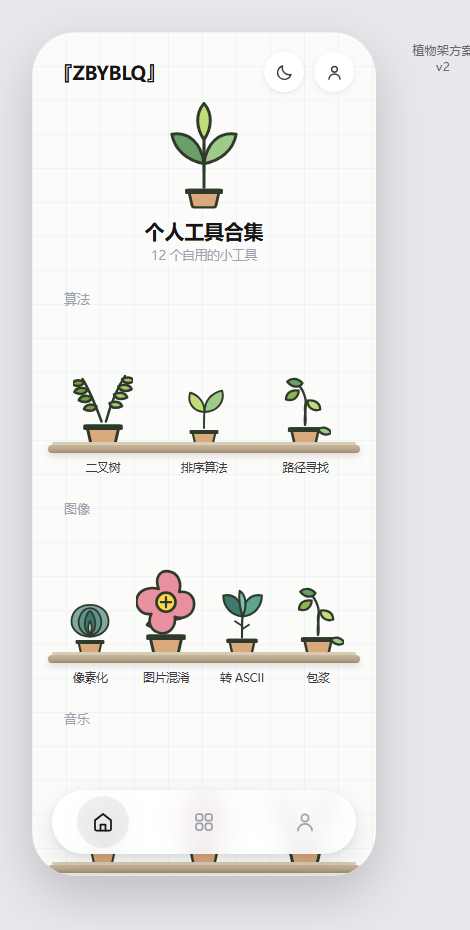
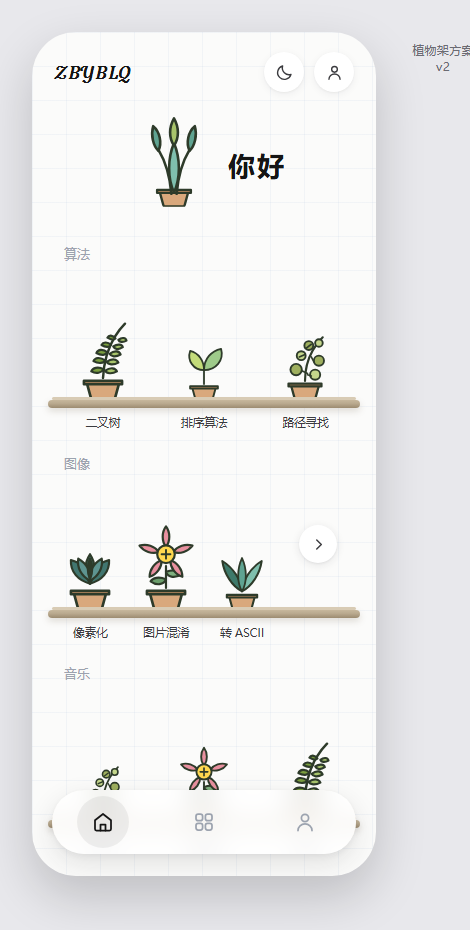
docs: 主页方案第二轮修订
按审阅意见调整六处：

1. 品牌字改用数学字体 𝒵𝐵𝒴𝐵𝐿𝒬
2. 删除主视觉的标题与副标题，改为「植物 + 问候词」横排
3. 修复植物穿模与出界（蕨、花、莲座、藤蔓、阔叶五种）
4. 花的花瓣原先在中心重叠，粗描边把粉色糊成黑团，已加大中心留白
5. 藤蔓原先与蕨叶形状过近，改用圆叶区分
6. 货架最多显示 3 个，超出部分由右侧 SVG 箭头跳转分类页

形态出界的根因是手工计算贝塞尔控制点时未约束在 80×120 的 viewBox
内。改用「基准叶 + 绕基点旋转」的构造方式后几何可预测，不再出界，
此法已应用于阔叶与花。

已知遗留：仍偏剪贴画（路径过于平滑，缺手绘不规则感）、主视觉植物
偏单薄、箭头与货架的整合度可再优化。

Refs: docs/08-home-redesign-proposal.md §8

diff --git a/docs/design/home-shelf-proposal.html b/docs/design/home-shelf-proposal.html
@@ -26,10 +26,10 @@
     display:flex;align-items:center;justify-content:center;
     box-shadow:0 1px 2px rgba(40,40,45,.05),0 2px 8px rgba(40,40,45,.06)}
 
-  .intro{text-align:center;padding:10px 24px 2px}
-  .intro svg{width:112px;height:112px;display:block;margin:0 auto}
-  .intro h1{font-size:20px;margin:4px 0 0;color:var(--ink1);letter-spacing:-.2px}
-  .intro p{margin:3px 0 0;font-size:12.5px;color:var(--ink3)}
+  .intro{display:flex;align-items:center;justify-content:center;gap:2px;padding:16px 24px 8px}
+  .intro svg{width:104px;height:104px;flex:none}
+  .hi{font-size:27px;font-weight:600;color:var(--ink1);letter-spacing:2px;
+      /* 视觉基线略低于植物中心，避免读作「植物+标签」 */margin-top:10px}
 
   .shelfblock{padding:26px 0 0}
   .shelfname{font-size:12.5px;color:var(--ink3);letter-spacing:.6px;padding:0 32px 6px}
@@ -47,6 +47,15 @@
     border-radius:4px;box-shadow:0 3px 7px rgba(120,105,84,.22)}
   .board::before{content:'';position:absolute;left:4px;right:4px;top:-3px;height:3px;
     background:#D8CBB4;border-radius:3px}
+
+  /* 「更多」箭头：坐在板上，与花盆同一基线高度 */
+  .row .more{align-self:center}
+  .more{display:flex;align-items:center;justify-content:center;
+    width:38px;height:38px;border-radius:50%;background:#fff;
+    box-shadow:0 1px 2px rgba(40,40,45,.06),0 2px 8px rgba(40,40,45,.10);
+    transition:transform .18s cubic-bezier(.34,1.45,.64,1)}
+  .more svg{width:17px;height:17px}
+  .more:hover{transform:translateX(2px)}
 
   .names{padding-top:7px}
   .names span{font-size:11.5px;color:var(--ink2);white-space:nowrap}
@@ -69,105 +78,129 @@
 <body>
 
 <svg width="0" height="0" style="position:absolute"><defs>
-  <!-- 通用花盆：梯形 + 盆沿 -->
-  <symbol id="pot" viewBox="0 0 60 34">
-    <path d="M8 8 H52 L47 30 C46.6 32 45 33 43 33 H17 C15 33 13.4 32 13 30 Z"
-          fill="#D9A87C" stroke="#2E3B2A" stroke-width="4" stroke-linejoin="round"/>
-    <path d="M5 8 H55 V11.5 H5 Z" fill="#C48F63" stroke="#2E3B2A" stroke-width="4" stroke-linejoin="round"/>
+  <!-- 花盆：盆沿 + 梯形盆身。土壤面在 y=6 -->
+  <symbol id="pot" viewBox="0 0 64 32">
+    <path d="M10 9 H54 L48.5 29 C48.2 30.6 47 31.6 45.4 31.6 H18.6 C17 31.6 15.8 30.6 15.5 29 Z"
+          fill="#D9A87C" stroke="#2E3B2A" stroke-width="3.6" stroke-linejoin="round"/>
+    <path d="M6 6 H58 V10.5 H6 Z" fill="#C48F63" stroke="#2E3B2A" stroke-width="3.6" stroke-linejoin="round"/>
   </symbol>
 
-  <!-- 1 阔叶：大叶片 + 叶柄 -->
+  <!-- 基准叶：从 (40,88) 长到 (40,26)，绕基点旋转即可得各方向叶片 -->
+  <symbol id="leafbase" viewBox="0 0 80 120">
+    <path d="M40 88 C30.5 72 30.5 46 40 26 C49.5 46 49.5 72 40 88 Z"/>
+  </symbol>
+
+  <!-- 1 阔叶：三片叶自盆中舒展，中片直立、两侧对称外展 -->
   <symbol id="p-leaf" viewBox="0 0 80 120">
-    <use href="#pot" x="10" y="86" width="60" height="34"/>
-    <g stroke="#2E3B2A" stroke-width="3.6" stroke-linecap="round" stroke-linejoin="round">
-      <path d="M40 90 C40 74 40 62 41 52" fill="none"/>
-      <path d="M41 54 C22 52 8 38 8 18 C28 14 42 30 41 54 Z" fill="#3E7A6B"/>
-      <path d="M41 54 C60 52 74 38 74 18 C54 14 40 30 41 54 Z" fill="#5FA391"/>
-      <path d="M41 54 C36 38 34 24 36 10 C46 16 50 34 41 54 Z" fill="#7FBFAD"/>
-      <path d="M40 86 L40 60 M40 70 L28 62 M40 76 L52 68" fill="none" stroke-width="3"/>
+    <use href="#pot" x="8" y="88" width="64" height="32"/>
+    <g stroke="#2E3B2A" stroke-width="3.4" stroke-linejoin="round" stroke-linecap="round">
+      <use href="#leafbase" fill="#3E7A6B" transform="rotate(-33 40 88)"/>
+      <use href="#leafbase" fill="#7FBFAD" transform="rotate(33 40 88)"/>
+      <use href="#leafbase" fill="#5FA391" transform="scale(.92) translate(3.5 7.6)"/>
     </g>
   </symbol>
 
-  <!-- 2 蕨：两枝拱形羽叶 -->
+  <!-- 2 蕨：单枝拱形羽叶。此前两枝交叉成 X 且叶片出框，改为单枝 -->
   <symbol id="p-fern" viewBox="0 0 80 120">
-    <use href="#pot" x="10" y="86" width="60" height="34"/>
-    <g stroke="#2E3B2A" stroke-width="3.4" stroke-linecap="round" stroke-linejoin="round">
-      <path d="M38 88 C30 66 22 46 12 30" fill="none"/>
-      <path d="M44 88 C50 66 58 44 70 26" fill="none"/>
+    <use href="#pot" x="8" y="88" width="64" height="32"/>
+    <g stroke="#2E3B2A" stroke-width="3" stroke-linecap="round" stroke-linejoin="round">
+      <path d="M40 90 C41 72 45 52 56 34 C61 26 66 20 70 16" fill="none" stroke-width="3.4"/>
+      <!-- 小叶沿茎两侧交替，向尖端递减；全部在 x 8..74 内 -->
       <g fill="#7A9E3E">
-        <path d="M14 34 C6 30 0 32 -2 37 C5 41 12 40 14 34 Z"/>
-        <path d="M19 44 C10 40 3 42 1 48 C9 52 17 51 19 44 Z"/>
-        <path d="M25 55 C16 51 9 53 7 59 C15 63 23 62 25 55 Z"/>
-        <path d="M31 67 C23 63 16 65 14 71 C22 75 30 74 31 67 Z"/>
+        <path d="M41 78 C33 74 26 76 24 81 C31 85 38 83 41 78 Z"/>
+        <path d="M43 66 C36 61 29 62 27 67 C34 71 41 70 43 66 Z"/>
+        <path d="M46 55 C40 50 33 51 31 56 C38 60 44 59 46 55 Z"/>
+        <path d="M51 45 C46 40 40 41 38 45 C44 49 49 48 51 45 Z"/>
+        <path d="M57 36 C53 31 48 31 46 35 C51 38 55 38 57 36 Z"/>
       </g>
       <g fill="#A8C46B">
-        <path d="M66 30 C74 26 80 28 82 33 C75 37 68 36 66 30 Z"/>
-        <path d="M61 40 C70 36 77 38 79 44 C71 48 63 47 61 40 Z"/>
-        <path d="M55 51 C64 47 71 49 73 55 C65 59 57 58 55 51 Z"/>
-        <path d="M49 63 C57 59 64 61 66 67 C58 71 50 70 49 63 Z"/>
+        <path d="M43 80 C50 75 57 76 59 81 C52 85 45 84 43 80 Z"/>
+        <path d="M45 68 C52 63 59 64 61 69 C54 73 47 72 45 68 Z"/>
+        <path d="M49 57 C56 52 62 53 64 58 C57 62 51 61 49 57 Z"/>
+        <path d="M54 47 C60 43 66 44 67 48 C61 52 56 51 54 47 Z"/>
+        <path d="M61 38 C66 34 71 35 72 39 C67 42 62 41 61 38 Z"/>
       </g>
     </g>
   </symbol>
 
-  <!-- 3 花：五瓣不等分 -->
+  <!-- 3 花：花瓣外移收窄。此前五瓣在中心重叠，粗描边把粉色糊成一团黑 -->
   <symbol id="p-flower" viewBox="0 0 80 120">
-    <use href="#pot" x="10" y="86" width="60" height="34"/>
-    <g stroke="#2E3B2A" stroke-width="3.6" stroke-linecap="round" stroke-linejoin="round">
-      <path d="M40 88 C40 74 40 60 40 48" fill="none"/>
-      <path d="M40 74 C28 70 18 72 14 79 C24 86 36 84 40 74 Z" fill="#6B9E6B"/>
-      <path d="M40 62 C52 58 62 60 66 67 C56 74 44 72 40 62 Z" fill="#9ECB8A"/>
-      <path d="M30 30 C24 14 32 4 44 6 C56 8 62 20 58 34
-               C72 32 80 42 78 54 C76 66 64 72 52 68
-               C54 82 44 92 32 90 C20 88 14 76 20 64
-               C8 66 -2 56 0 44 C2 32 16 26 30 30 Z" fill="#E8909F"/>
-      <circle cx="40" cy="48" r="13" fill="#FFD84F"/>
-      <path d="M40 41 L40 55 M33 48 L47 48" fill="none" stroke-width="3"/>
+    <use href="#pot" x="8" y="88" width="64" height="32"/>
+    <g stroke="#2E3B2A" stroke-width="3" stroke-linecap="round" stroke-linejoin="round">
+      <path d="M40 90 C40 78 40 68 40 60" fill="none"/>
+      <path d="M40 78 C30 74 22 76 19 81 C27 87 37 86 40 78 Z" fill="#6B9E6B"/>
+      <path d="M40 68 C50 64 58 66 61 71 C53 77 43 76 40 68 Z" fill="#7FB07F"/>
+      <g fill="#E8909F">
+        <path d="M40 34 C34 26 34 14 40 6 C46 14 46 26 40 34 Z"/>
+        <path d="M40 34 C34 26 34 14 40 6 C46 14 46 26 40 34 Z" transform="rotate(72 40 44)"/>
+        <path d="M40 34 C34 26 34 14 40 6 C46 14 46 26 40 34 Z" transform="rotate(144 40 44)"/>
+        <path d="M40 34 C34 26 34 14 40 6 C46 14 46 26 40 34 Z" transform="rotate(216 40 44)"/>
+        <path d="M40 34 C34 26 34 14 40 6 C46 14 46 26 40 34 Z" transform="rotate(288 40 44)"/>
+      </g>
+      <circle cx="40" cy="44" r="12" fill="#FFD84F"/>
+      <path d="M40 38 L40 50 M34 44 L46 44" fill="none" stroke-width="2.6"/>
     </g>
   </symbol>
 
-  <!-- 4 芽：两片初叶，不对称 -->
+  <!-- 4 芽：两片初叶 -->
   <symbol id="p-sprout" viewBox="0 0 80 120">
-    <use href="#pot" x="10" y="86" width="60" height="34"/>
-    <g stroke="#2E3B2A" stroke-width="3.6" stroke-linecap="round" stroke-linejoin="round">
-      <path d="M40 88 C40 76 40 64 41 56" fill="none"/>
-      <path d="M41 58 C41 40 30 26 14 22 C8 40 20 58 41 58 Z" fill="#C3DC7A"/>
-      <path d="M41 58 C41 36 55 22 74 18 C80 40 64 58 41 58 Z" fill="#9ECB8A"/>
+    <use href="#pot" x="8" y="88" width="64" height="32"/>
+    <g stroke="#2E3B2A" stroke-width="3.4" stroke-linecap="round" stroke-linejoin="round">
+      <path d="M40 90 C40 80 40 70 40 62" fill="none"/>
+      <path d="M40 64 C40 46 30 32 14 28 C8 46 20 64 40 64 Z" fill="#C3DC7A"/>
+      <path d="M40 64 C40 42 54 28 72 24 C78 46 62 64 40 64 Z" fill="#9ECB8A"/>
     </g>
   </symbol>
 
-  <!-- 5 莲座：外层摊开 + 内层立起 -->
+  <!-- 5 莲座：尖叶放射，取代原先的同心椭圆（原读不出多肉） -->
   <symbol id="p-rosette" viewBox="0 0 80 120">
-    <use href="#pot" x="10" y="86" width="60" height="34"/>
-    <g stroke="#2E3B2A" stroke-width="3.4" stroke-lineapp="round" stroke-linecap="round" stroke-linejoin="round">
-      <path d="M40 86 C14 84 2 68 6 50 C10 34 24 26 40 26 C56 26 70 34 74 50 C78 68 66 84 40 86 Z" fill="#7FA8A0"/>
-      <path d="M40 84 C22 80 16 64 20 50 C24 38 32 32 40 32 C48 32 56 38 60 50 C64 64 58 80 40 84 Z" fill="#5E9490"/>
-      <path d="M40 82 C30 76 28 62 32 50 C35 42 38 38 40 38 C42 38 45 42 48 50 C52 62 50 76 40 82 Z" fill="#41766F"/>
-      <path d="M40 80 C36 74 36 64 40 56 C44 64 44 74 40 80 Z" fill="#B5D4C8"/>
+    <use href="#pot" x="8" y="88" width="64" height="32"/>
+    <g stroke="#2E3B2A" stroke-width="3" stroke-linejoin="round" stroke-linecap="round">
+      <g fill="#41766F">
+        <path d="M40 84 C24 80 13 68 14 52 C30 56 41 68 40 84 Z"/>
+        <path d="M40 84 C56 80 67 68 66 52 C50 56 39 68 40 84 Z"/>
+        <path d="M40 84 C32 70 32 56 40 44 C48 56 48 70 40 84 Z"/>
+      </g>
+      <g fill="#5E9490">
+        <path d="M40 80 C28 74 22 62 24 50 C35 56 42 68 40 80 Z"/>
+        <path d="M40 80 C52 74 58 62 56 50 C45 56 38 68 40 80 Z"/>
+      </g>
+      <path d="M40 78 C36 68 36 58 40 50 C44 58 44 68 40 78 Z" fill="#7FA8A0"/>
+      <path d="M40 76 C38 68 38 60 40 54 C42 60 42 68 40 76 Z" fill="#B5D4C8"/>
     </g>
   </symbol>
 
-  <!-- 6 藤蔓：从盆沿垂落 -->
+  <!-- 6 藤：圆叶攀藤。此前叶片形状与蕨叶过近，改用圆形叶区分 -->
   <symbol id="p-vine" viewBox="0 0 80 120">
-    <use href="#pot" x="10" y="86" width="60" height="34"/>
-    <g stroke="#2E3B2A" stroke-width="3.6" stroke-linecap="round" stroke-linejoin="round">
-      <path d="M40 88 C38 72 44 58 40 44 C37 32 30 24 22 20" fill="none"/>
-      <path d="M40 88 C44 76 36 64 42 52" fill="none"/>
-      <path d="M30 34 C18 32 10 38 10 48 C22 52 30 44 30 34 Z" fill="#8FB44F"/>
-      <path d="M36 22 C28 14 18 14 12 20 C20 30 32 30 36 22 Z" fill="#6B9E6B"/>
-      <path d="M44 50 C56 48 64 54 64 64 C52 68 44 60 44 50 Z" fill="#C3DC7A"/>
-      <path d="M60 96 C66 104 76 106 82 100 C76 92 66 90 60 96 Z" fill="#9ECB8A"/>
+    <use href="#pot" x="8" y="88" width="64" height="32"/>
+    <g stroke="#2E3B2A" stroke-width="3" stroke-linecap="round" stroke-linejoin="round">
+      <path d="M40 90 C40 74 44 56 52 42 C57 33 63 26 68 21" fill="none" stroke-width="3.4"/>
+      <g fill="#9EAF5E">
+        <circle cx="26" cy="72" r="9" fill="#9EAF5E"/>
+        <circle cx="62" cy="58" r="8" fill="#9EAF5E"/>
+        <circle cx="46" cy="34" r="7" fill="#9EAF5E"/>
+      </g>
+      <g fill="#C4D68C">
+        <circle cx="56" cy="80" r="8"/>
+        <circle cx="34" cy="50" r="7"/>
+        <circle cx="62" cy="30" r="6"/>
+      </g>
+      <path d="M35 74 L44 78 M54 60 L50 52 M42 38 L50 32 M50 82 L44 80 M31 52 L40 48" fill="none" stroke-width="2.6"/>
     </g>
   </symbol>
 
-  <!-- 主视觉：三枝错落 -->
+  <!-- 主视觉：中片直立 + 两侧外展 + 蕨叶衬底 -->
   <symbol id="p-hero" viewBox="0 0 160 160">
-    <use href="#pot" x="50" y="118" width="60" height="34"/>
-    <g stroke="#2E3B2A" stroke-width="4.2" stroke-linecap="round" stroke-linejoin="round">
-      <path d="M80 122 C80 96 80 72 80 52" fill="none"/>
-      <path d="M80 88 C56 84 38 68 34 46 C58 42 76 58 80 88 Z" fill="#6B9E6B"/>
-      <path d="M80 88 C104 84 122 68 126 46 C102 42 84 58 80 88 Z" fill="#9ECB8A"/>
-      <path d="M80 54 C68 36 68 16 80 2 C92 16 92 36 80 54 Z" fill="#C3DC7A"/>
-      <path d="M80 60 L80 100" fill="none" stroke-width="3.4"/>
+    <use href="#pot" x="48" y="120" width="64" height="32"/>
+    <g stroke="#2E3B2A" stroke-width="4" stroke-linejoin="round" stroke-linecap="round">
+      <path d="M76 132 C74 108 68 84 56 64" fill="none"/>
+      <path d="M84 132 C86 108 92 84 104 64" fill="none"/>
+      <g fill="#5FA391">
+        <path d="M56 66 C48 58 44 42 48 28 C58 36 62 54 56 66 Z"/>
+        <path d="M104 66 C112 58 116 42 112 28 C102 36 98 54 104 66 Z"/>
+      </g>
+      <path d="M80 130 C70 108 70 78 80 54 C90 78 90 108 80 130 Z" fill="#7FBFAD"/>
+      <path d="M80 58 C72 46 72 30 80 16 C88 30 88 46 80 58 Z" fill="#A8C46B"/>
     </g>
   </symbol>
 </defs></svg>
@@ -175,7 +208,7 @@
 <div class="phone">
   <div class="scroll">
     <div class="head">
-      <div class="brand">『ZBYBLQ』</div>
+      <div class="brand">𝒵𝐵𝒴𝐵𝐿𝒬</div>
       <div class="acts">
         <button class="iconbtn"><svg width="19" height="19" viewBox="0 0 24 24" fill="none" stroke="#3B3B3F" stroke-width="1.75" stroke-linecap="round" stroke-linejoin="round"><path d="M20.2 14.4A8.6 8.6 0 0 1 9.6 3.8a8.6 8.6 0 1 0 10.6 10.6Z"/></svg></button>
         <button class="iconbtn"><svg width="19" height="19" viewBox="0 0 24 24" fill="none" stroke="#3B3B3F" stroke-width="1.75" stroke-linecap="round" stroke-linejoin="round"><circle cx="12" cy="8" r="3.6"/><path d="M5 20.5c0-3.7 3.1-6.6 7-6.6s7 2.9 7 6.6"/></svg></button>
@@ -184,8 +217,7 @@
 
     <div class="intro">
       <svg><use href="#p-hero"/></svg>
-      <h1>个人工具合集</h1>
-      <p>12 个自用的小工具</p>
+      <div class="hi">你好</div>
     </div>
 
     <div class="shelfblock">
@@ -209,17 +241,22 @@
       <div class="shelfname">图像</div>
       <div class="shelf">
         <div class="row" style="--n:4">
-        <div class="item s2"><svg><use href="#p-rosette"/></svg></div>
+        <div class="item s3"><svg><use href="#p-rosette"/></svg></div>
         <div class="item s3"><svg><use href="#p-flower"/></svg></div>
         <div class="item s4"><svg><use href="#p-leaf"/></svg></div>
-        <div class="item s1"><svg><use href="#p-vine"/></svg></div>
+        <a class="more" href="#">
+          <svg viewBox="0 0 24 24" fill="none" stroke="#3B3B3F" stroke-width="2"
+               stroke-linecap="round" stroke-linejoin="round">
+            <path d="M9.5 5.5 16 12l-6.5 6.5"/>
+          </svg>
+        </a>
         </div>
         <div class="board"></div>
         <div class="names" style="--n:4">
         <span>像素化</span>
         <span>图片混淆</span>
         <span>转 ASCII</span>
-        <span>包浆</span>
+        <span></span>
         </div>
       </div>
     </div>
@@ -228,7 +265,7 @@
       <div class="shelfname">音乐</div>
       <div class="shelf">
         <div class="row" style="--n:3">
-        <div class="item s2"><svg><use href="#p-sprout"/></svg></div>
+        <div class="item s2"><svg><use href="#p-vine"/></svg></div>
         <div class="item s1"><svg><use href="#p-flower"/></svg></div>
         <div class="item s3"><svg><use href="#p-fern"/></svg></div>
         </div>

diff --git a/docs/08-home-redesign-proposal.md b/docs/08-home-redesign-proposal.md
@@ -300,3 +300,62 @@ Golite 是锥形。形状承载产品语义，颜色只做区分。
 | H4 | 分类是否就等于货架层 | 是（推荐）/ 货架不分组，任意摆放 |
 | H5 | 12 个工具的物种分配 | 我按形态语义分配 / 你指定 |
 | H6 | 是否保留顶部分段控件 | 去掉（推荐，货架已表达分组）/ 保留 |
+
+---
+
+## 8. 第二轮修订（2026-09-18）
+
+基于对可视稿的审阅意见，做了六处调整。
+
+### 8.1 已修改项
+
+| 编号 | 修改 | 说明 |
+| --- | --- | --- |
+| 1 | 品牌字改用数学字体 | `ZBYBLQ` → `𝒵𝐵𝒴𝐵𝐿𝒬` |
+| 2 | 删除主视觉的标题与副标题 | 原「个人工具合集 / 12 个自用的小工具」占用过多垂直空间 |
+| 3 | 主视觉改为「植物 + 问候词」横排 | 借鉴参照对象的简洁主视觉 |
+| 4 | 修复植物穿模与出界 | 见 §8.2 |
+| 5 | 货架最多显示 3 个 | 超出部分由箭头跳转到分类页 |
+| 6 | 右侧增加跳转箭头 | 仅在该分类工具数超过 3 时出现 |
+
+### 8.2 植物形态的修复
+
+审阅发现的形态问题与修法：
+
+| 形态 | 原问题 | 修法 |
+| --- | --- | --- |
+| 蕨 | 两枝交叉成 X，叶片出界被裁（左 x=-2、右 x=82） | 改为单枝拱形羽叶，叶片沿茎两侧交替并递减 |
+| 花 | 花瓣出界（x=-2），整朵过大，盆被迫缩小 | 花瓣外移收窄；花心加大以盖住瓣根 |
+| 花（二次） | 五瓣在中心重叠，粗描边把粉色糊成一团黑 | 花瓣基部下移、加大中心留白，让填充色露出 |
+| 莲座 | 读作同心椭圆（洋葱/蛋） | 改为尖叶放射，外层摊开内层立起 |
+| 藤蔓 | 斜生枝条，有一片叶长在盆沿外 | 改为拱形攀藤 |
+| 藤蔓（二次） | 与蕨叶形状过近，难以区分 | 改用**圆叶**，与蕨的尖细羽叶形成对比 |
+| 阔叶 | 茎插入盆内，叶柄生出多余叉枝 | 改用「基准叶 + 旋转」构造，几何可预测 |
+
+**根因**：初版手工计算贝塞尔控制点，没有约束在 80×120 的 viewBox 内，
+导致多处出界被裁。改用的做法是——
+
+**先定义一片标准叶（基部在盆口、尖端到顶），再用 `transform: rotate`
+绕基部复制。** 旋转半径恒定，几何可预测，不会出界，且各方向叶片
+自然对称。此法已用于阔叶与花。
+
+### 8.3 遗留待办
+
+| 问题 | 状态 |
+| --- | --- |
+| 仍偏「剪贴画」 | 未解决。路径仍过于平滑，缺参照对象 doodle 的手绘不规则感 |
+| 主视觉植物偏单薄 | 待调整，叶片可再饱满 |
+| 箭头与货架的整合度 | 目前是悬浮在其上的圆形按钮，可考虑与板沿结合 |
+
+### 8.4 修订后的待确认项
+
+| 编号 | 问题 | 选项 |
+| --- | --- | --- |
+| H1 | 货架方向 | **已确认成立** |
+| H2 | 是否保留花盆 | 保留（已实现） |
+| H3 | 一屏信息量 | 已由「每架最多 3 个」解决 |
+| H4 | 分类是否等于货架层 | 是（已实现） |
+| H5 | 12 个工具的物种分配 | 待定 |
+| H6 | 顶部分段控件 | 去掉（可视稿已去掉） |
+| H7 | **问候词的最终文案** | 「你好」为占位，可换更雅致的单字或短词 |
+| H8 | 箭头是否需要显示剩余数量 | 纯箭头 / 箭头 + 「还有 N 个」 |
